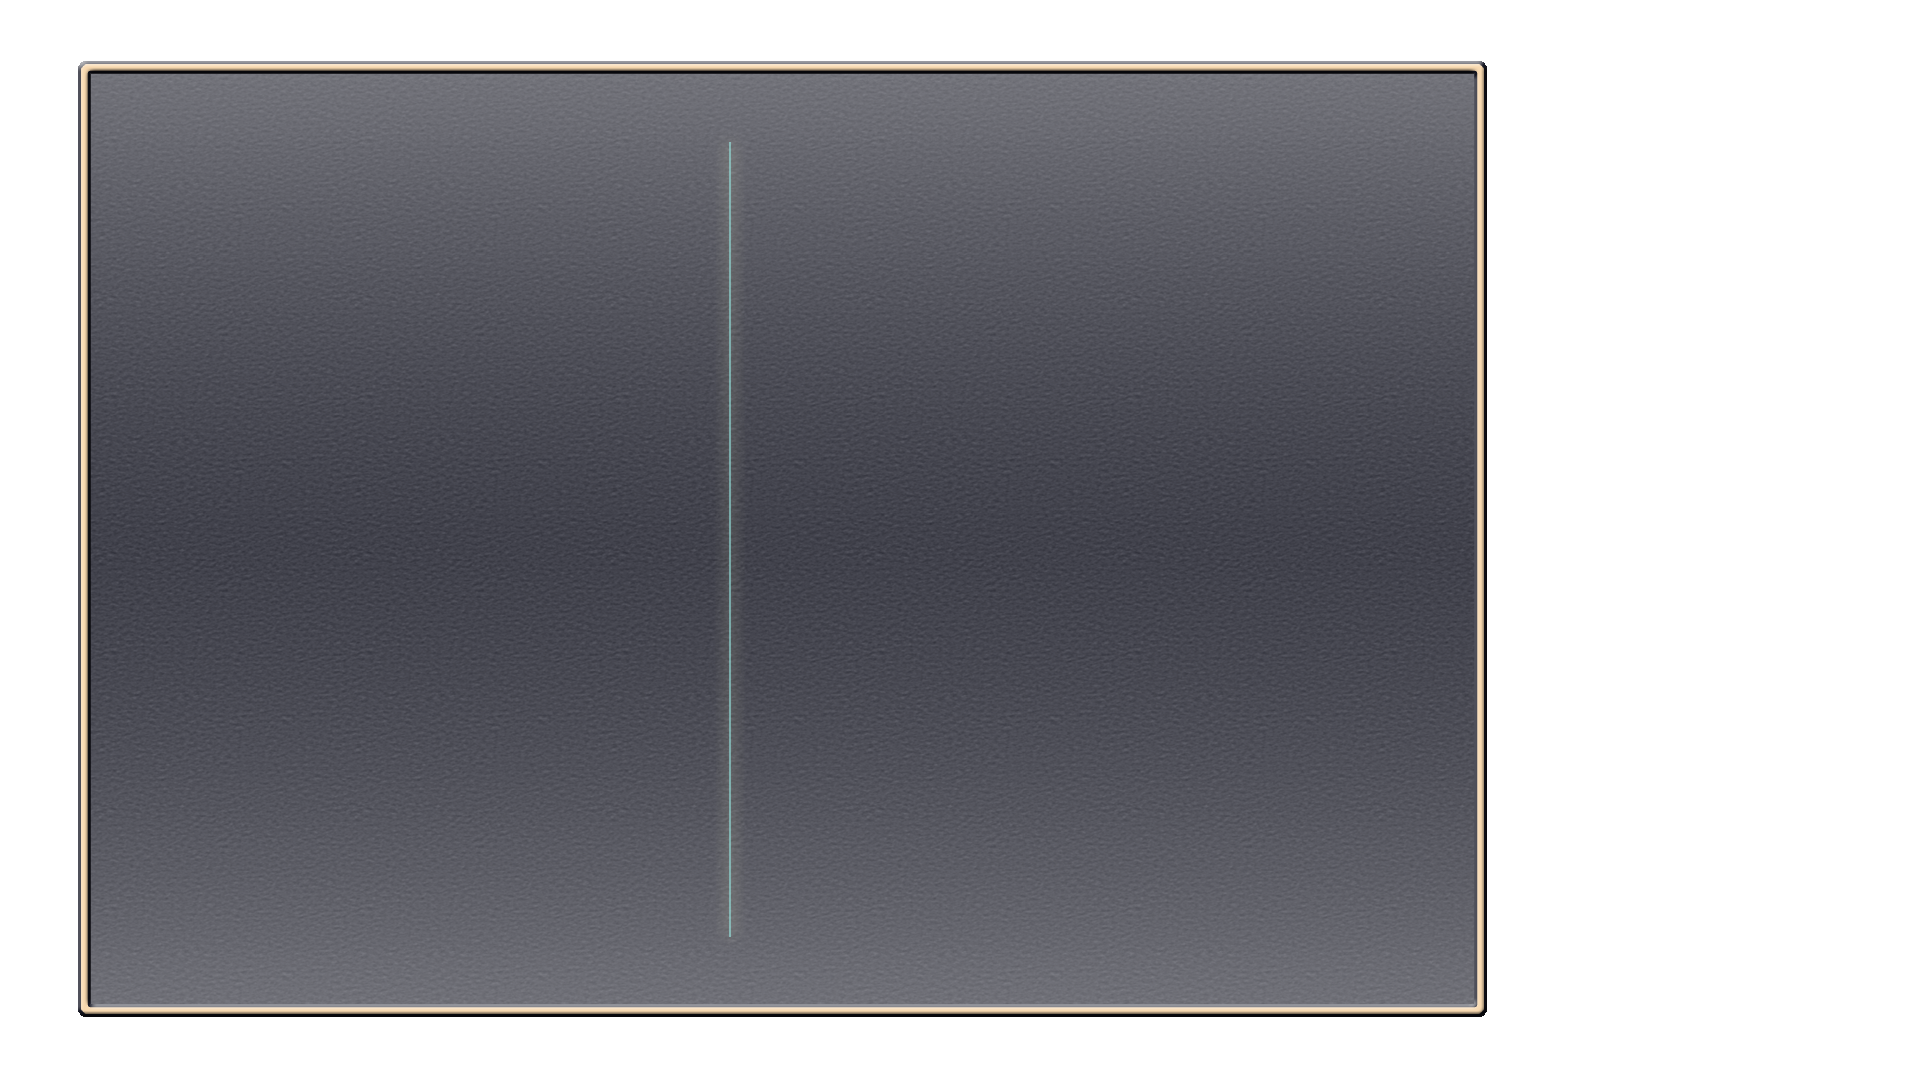
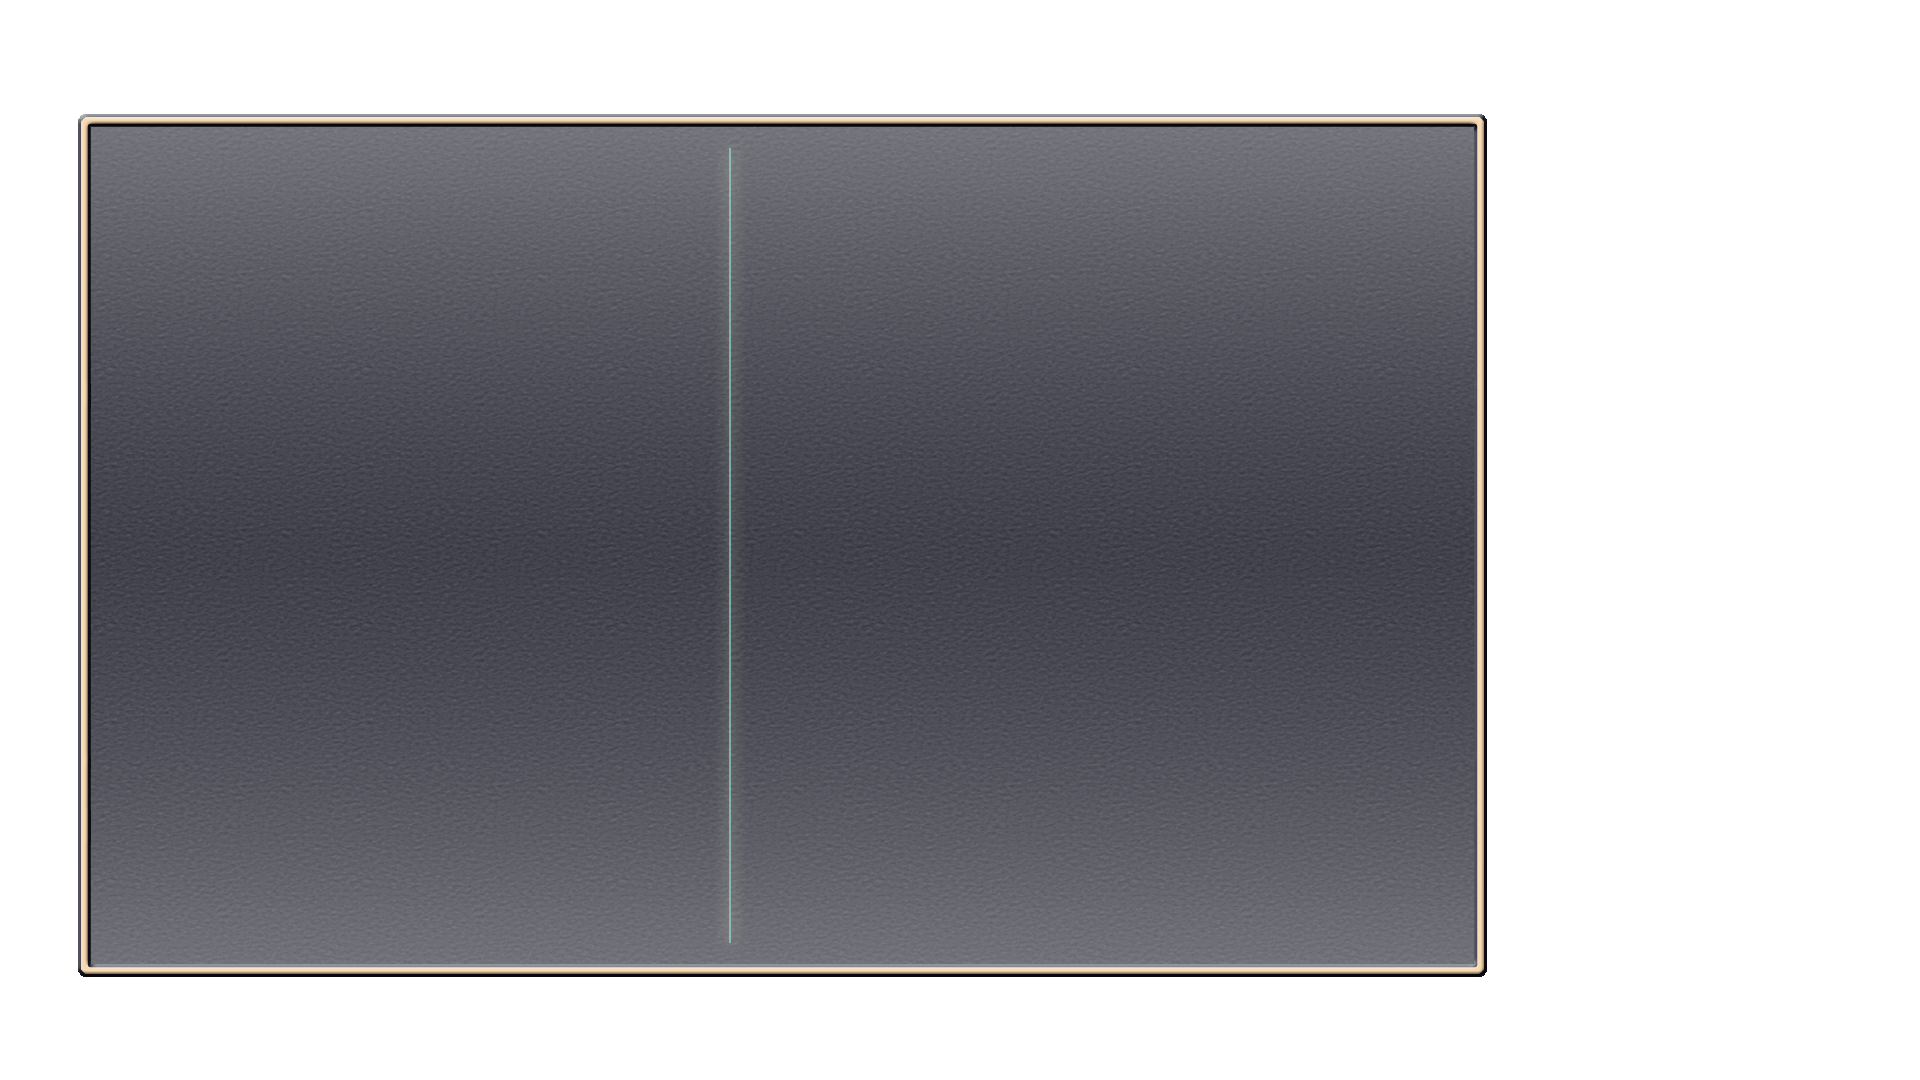
Fix UI placement

Changed region(s): [[0.0312, 0.0306, 0.7812, 0.1222], [0.0312, 0.8861, 0.7812, 0.9472]]

diff --git a/src/features/game/collectibles/GameCollectiblesManager.ts b/src/features/game/collectibles/GameCollectiblesManager.ts
@@ -1,31 +1,39 @@
-import GameUserStateManager from '../state/GameUserStateManager';
-import { CollectiblePage } from './CollectiblesTypes';
-import { collectiblesMenu, collectiblesPage } from '../commons/CommonAssets';
+import { CollectiblePage } from './GameCollectiblesTypes';
+import {
+  collectiblesMenu,
+  collectiblesPage,
+  collectiblesPageChosen
+} from '../commons/CommonAssets';
 import GameLayerManager from '../layer/GameLayerManager';
 import { Layer } from '../layer/GameLayerTypes';
+import { screenCenter } from '../commons/CommonConstants';
+import {
+  bannerYStartPos,
+  bannerXSpacing,
+  bannerTextXPos,
+  bannerTextStyle
+} from './GameCollectiblesConstants';
 
-class CollectiblesManager {
+class GameCollectiblesManager {
   private scene: Phaser.Scene | undefined;
   private currCollectiblePage: CollectiblePage;
-  private userStateManager: GameUserStateManager | undefined;
   private layerManager: GameLayerManager | undefined;
 
   constructor() {
     this.currCollectiblePage = CollectiblePage.Collectibles;
   }
 
-  public initialise(
-    scene: Phaser.Scene,
-    userStateManager: GameUserStateManager,
-    layerManager: GameLayerManager
-  ) {
+  public initialise(scene: Phaser.Scene, layerManager: GameLayerManager) {
     this.scene = scene;
-    this.userStateManager = userStateManager;
     this.layerManager = layerManager;
   }
 
-  public createCollectibleMenu() {
-    const collectibleContainer = new Phaser.GameObjects.Container(this.getScene(), 0, 0);
+  public renderCollectibleMenu() {
+    const collectibleContainer = new Phaser.GameObjects.Container(
+      this.getScene(),
+      screenCenter.x,
+      screenCenter.y
+    );
     const collectiblesBg = new Phaser.GameObjects.Image(
       this.getScene(),
       0,
@@ -35,12 +43,13 @@ class CollectiblesManager {
     collectibleContainer.add(collectiblesBg);
 
     // Add options
-    for (const page in CollectiblePage) {
-      const pageOptContainer = this.addPageBanner(page, () => {
+    Object.keys(CollectiblePage).forEach((page, index) => {
+      const isChosen = page === (this.currCollectiblePage as string);
+      const pageOptContainer = this.addPageBanner(page, index, isChosen, () => {
         this.currCollectiblePage = page as CollectiblePage;
       });
       collectibleContainer.add(pageOptContainer);
-    }
+    });
 
     const activePage = this.getCurrentPage(this.currCollectiblePage);
     collectibleContainer.add(activePage);
@@ -57,13 +66,6 @@ class CollectiblesManager {
     return this.scene;
   }
 
-  private getUserStateManager() {
-    if (!this.userStateManager) {
-      throw console.error('Undefined User State Manager');
-    }
-    return this.userStateManager;
-  }
-
   private getLayerManager() {
     if (!this.layerManager) {
       throw console.error('Undefined Layer Manager');
@@ -71,22 +73,47 @@ class CollectiblesManager {
     return this.layerManager;
   }
 
-  private addPageBanner(text: string, callback: any) {
+  private addPageBanner(text: string, index: number, isChosen: boolean, callback: any) {
     const pageBannerContainer = new Phaser.GameObjects.Container(this.getScene(), 0, 0);
-    const pageBannerBg = new Phaser.GameObjects.Sprite(this.getScene(), 0, 0, collectiblesPage.key);
-    const pageBannerText = new Phaser.GameObjects.Text(this.getScene(), 0, 0, text, {});
+    const bannerYPos = bannerYStartPos + index * bannerXSpacing;
+    const pageBannerBg = new Phaser.GameObjects.Sprite(
+      this.getScene(),
+      0,
+      bannerYPos,
+      collectiblesPage.key
+    );
+
+    const pageBannerChosen = new Phaser.GameObjects.Sprite(
+      this.getScene(),
+      0,
+      bannerYPos,
+      collectiblesPageChosen.key
+    );
+
+    const bannerTextYPos = bannerYStartPos + index * bannerXSpacing;
+    const pageBannerText = new Phaser.GameObjects.Text(
+      this.getScene(),
+      bannerTextXPos,
+      bannerTextYPos,
+      text,
+      bannerTextStyle
+    );
+    pageBannerText.setOrigin(0.1, 0.55);
+
     pageBannerBg.setInteractive({ pixelPerfect: true, useHandCursor: true });
     pageBannerBg.addListener(Phaser.Input.Events.GAMEOBJECT_POINTER_UP, callback);
     pageBannerContainer.add([pageBannerBg, pageBannerText]);
+    if (isChosen) pageBannerContainer.add(pageBannerChosen);
+
     return pageBannerContainer;
   }
 
   private getCollectibles() {
-    return this.getUserStateManager().getList('collectibles');
+    return ['collect1', 'collect2'];
   }
 
   private getAchievements() {
-    return this.getUserStateManager().getList('achievements');
+    return ['achievement1', 'achievement2', 'achievement3'];
   }
 
   private getCurrentPage(page: CollectiblePage) {
@@ -108,4 +135,4 @@ class CollectiblesManager {
   }
 }
 
-export default CollectiblesManager;
+export default GameCollectiblesManager;

diff --git a/src/features/game/scenes/myRoom/MyRoom.ts b/src/features/game/scenes/myRoom/MyRoom.ts
@@ -1,19 +1,36 @@
 import CommonBackButton from '../../commons/CommonBackButton';
 import GameLayerManager from '../../layer/GameLayerManager';
 import { Layer } from '../../layer/GameLayerTypes';
+import { addLoadingScreen } from '../../effects/LoadingScreen';
+import GameCollectiblesManager from '../../collectibles/GameCollectiblesManager';
+import commonAssets from '../../commons/CommonAssets';
 
 class MyRoom extends Phaser.Scene {
   private layerManager: GameLayerManager;
+  private collectiblesManager: GameCollectiblesManager;
 
   constructor() {
     super('MyRoom');
     this.layerManager = new GameLayerManager();
+    this.collectiblesManager = new GameCollectiblesManager();
   }
 
-  public preload() {}
+  public preload() {
+    addLoadingScreen(this);
+    this.preloadBaseAssets();
+    this.layerManager.initialiseMainLayer(this);
+    this.collectiblesManager.initialise(this, this.layerManager);
+  }
 
   public create() {
+    this.collectiblesManager.renderCollectibleMenu();
     this.renderMyRoom();
+  }
+
+  private preloadBaseAssets() {
+    commonAssets.forEach(asset => {
+      this.load.image(asset.key, asset.path);
+    });
   }
 
   private renderMyRoom() {

diff --git a/src/features/game/commons/CommonAssets.ts b/src/features/game/commons/CommonAssets.ts
@@ -85,6 +85,11 @@ export const collectiblesBanner: ImageAsset = {
   path: '../assets/collectiblesBanner.png'
 };
 
+export const collectiblesPageChosen: ImageAsset = {
+  key: 'collectibles-page-chosen',
+  path: '../assets/collectiblesPageOptChosen.png'
+};
+
 export const collectiblesPage: ImageAsset = {
   key: 'collectibles-page-opt',
   path: '../assets/collectiblesPageOpt.png'
@@ -108,6 +113,7 @@ const commonAssets = [
   escapeMenuBackground,
   collectiblesMenu,
   collectiblesPage,
+  collectiblesPageChosen,
   collectiblesBanner
 ];
 

diff --git a/src/features/game/collectibles/GameCollectiblesConstants.ts b/src/features/game/collectibles/GameCollectiblesConstants.ts
@@ -1,0 +1,13 @@
+import { screenSize } from '../commons/CommonConstants';
+import { Color } from '../utils/StyleUtils';
+
+export const bannerYStartPos = -screenSize.y * 0.3;
+export const bannerXSpacing = 150;
+
+export const bannerTextXPos = screenSize.x * 0.3;
+
+export const bannerTextStyle = {
+  fontFamily: 'Helvetica',
+  fontSize: '30px',
+  fill: Color.lightBlue
+};
